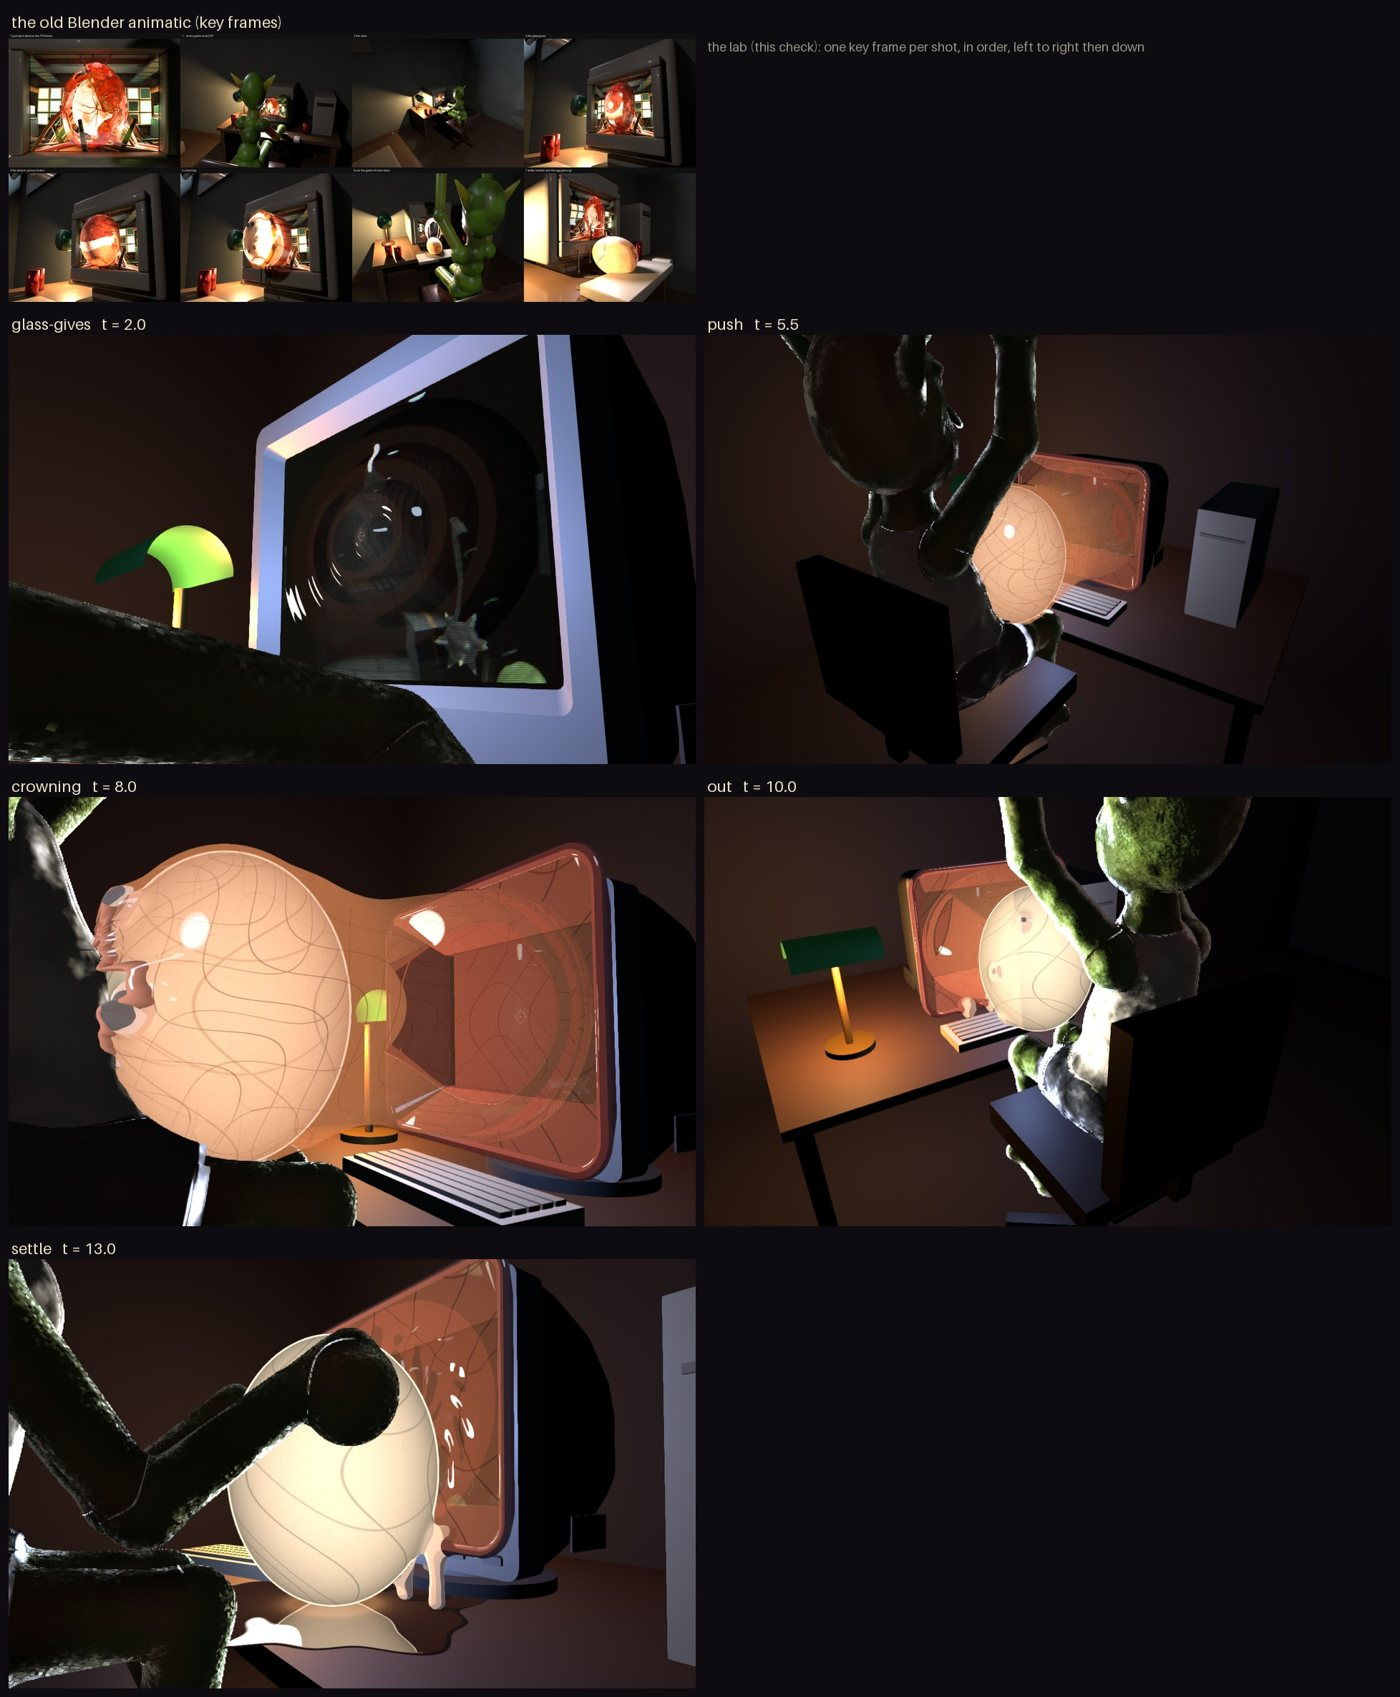
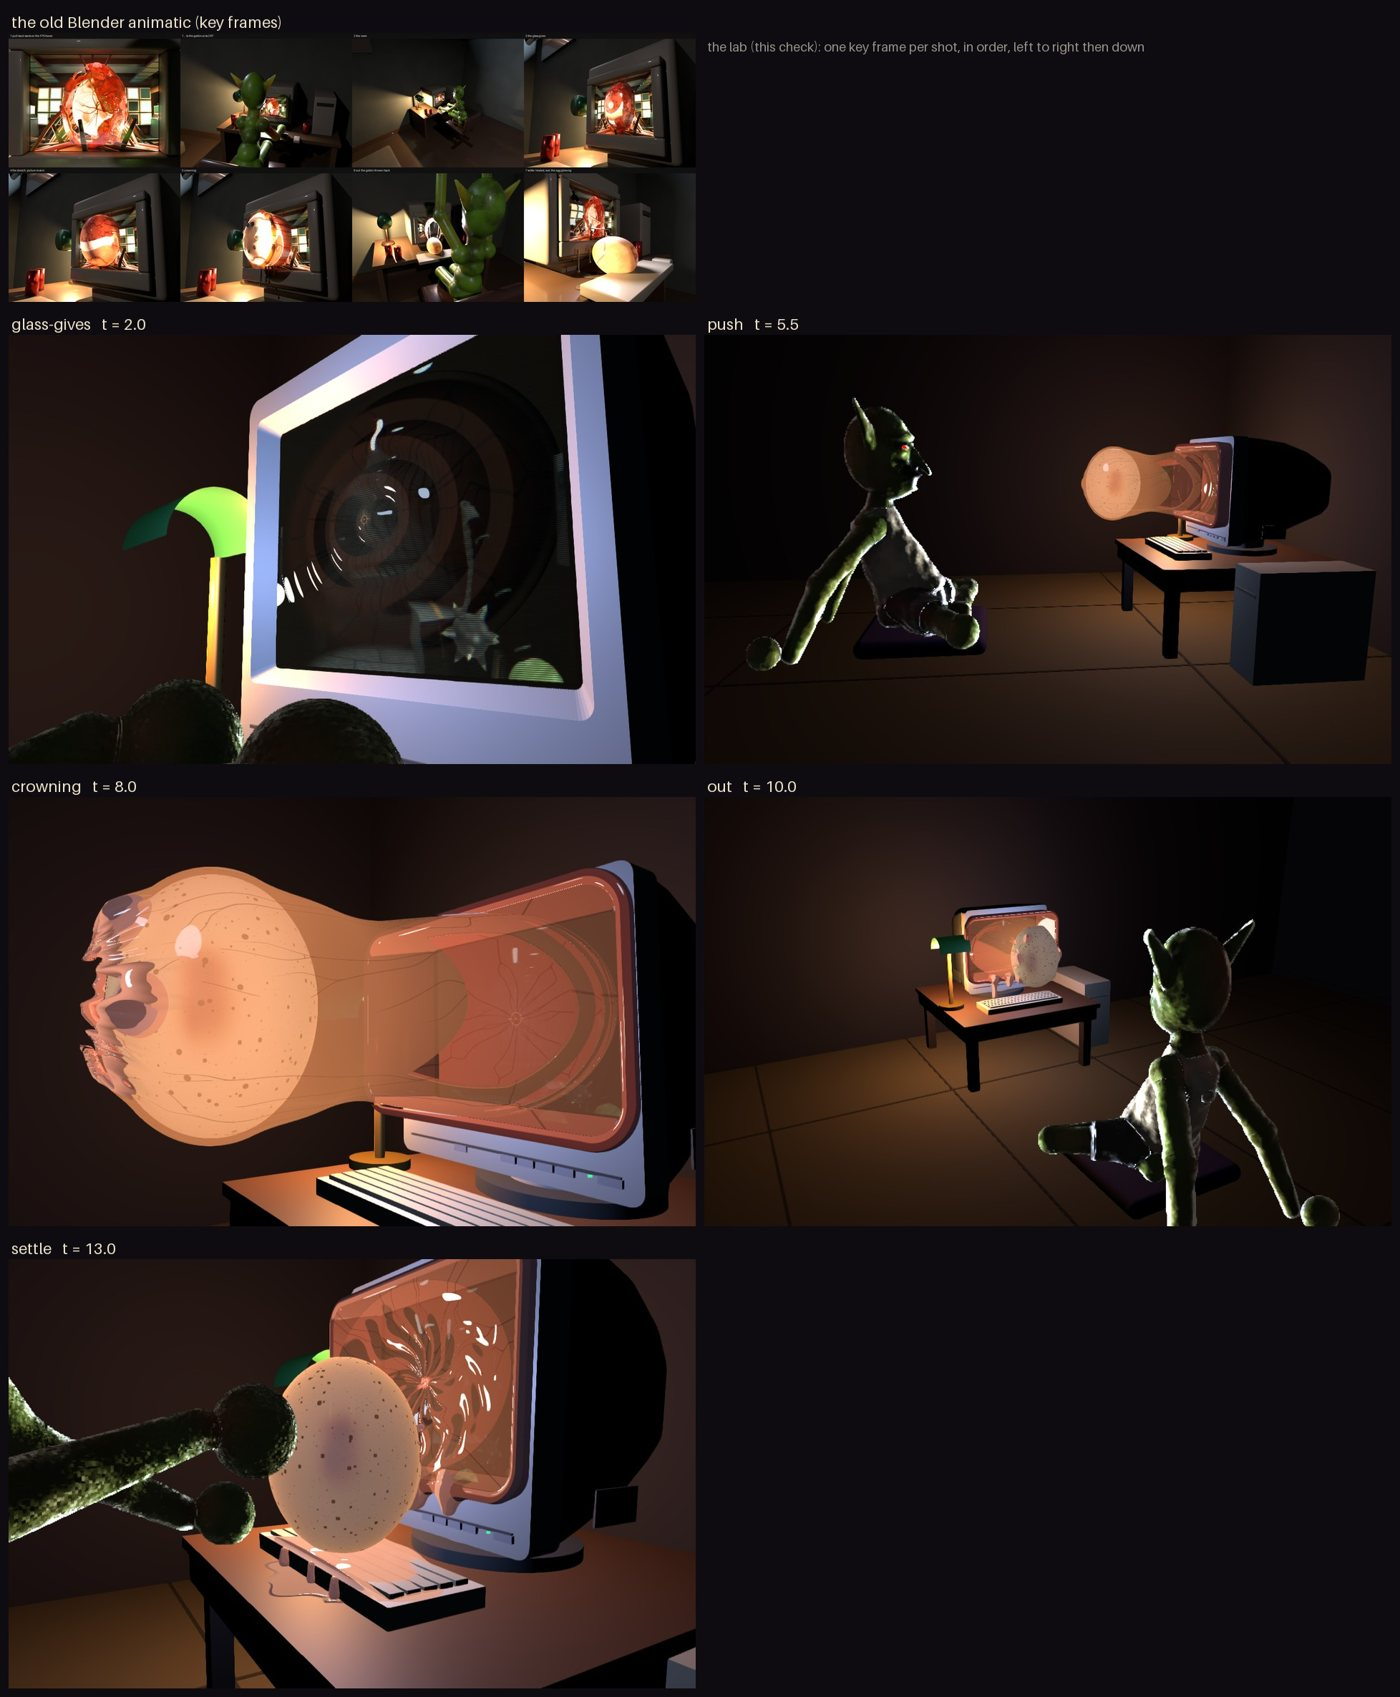
docs(emergence): look round 1, notes, sheet and spec addendum

Changed region(s): [[0.0, 0.1874, 1.0, 0.9994]]

diff --git a/docs/dev-notes/2026-10-11-screen-emergence/NOTES.md b/docs/dev-notes/2026-10-11-screen-emergence/NOTES.md
@@ -3,7 +3,7 @@
 **Spec:** [`2026-10-11-screen-emergence-lab-spike-design.md`](../../superpowers/specs/2026-10-11-screen-emergence-lab-spike-design.md) · **Plan:** [`2026-10-11-screen-emergence-lab-spike.md`](../../superpowers/plans/2026-10-11-screen-emergence-lab-spike.md) ·
 **Parent draft:** [`2026-10-01-flat-screen-emergence-design.md`](../../superpowers/specs/2026-10-01-flat-screen-emergence-design.md) · **Look-dev it follows:** [`2026-10-01-flat-emergence-lookdev`](../2026-10-01-flat-emergence-lookdev/notes.md).
 
-**Sheet:** [`sheet.jpg`](sheet.jpg): the old Blender animatic on top, then one lab frame per shot (glass gives t 2.0, push 5.5, crowning 8.0, out 10.0, settle 13.0), from the headless check below.
+**Sheet:** [`sheet.jpg`](sheet.jpg): the old Blender animatic on top, then one lab frame per shot (glass gives t 2.0, push 5.5, crowning 8.0, out 10.0, settle 13.0), from the headless check below. **It shows the state after look round 1** (below); the first round's sheet is in the PR #47 history.
 **The home clothes:** [`home-clothes.jpg`](home-clothes.jpg) (front, side, back at rest; and seated).
 
 ## What is built
@@ -66,3 +66,29 @@ The curve keys in `emergence-timeline.ts` (timing and amounts); `SAC_BLEND`, `DO
 ## Out of scope, still (the spec's list)
 
 Two scenes in one page; extending `ending-sequence.ts`; hooking the Night Train montage's last frame to the pull-back; the early-stage Flat as a level state (CRT and vest instead of the Giger iMac); a live CRT picture; the final egg (paused); sound; the playable Flat.
+
+## Look round 1 (2026-10-12 and 2026-10-13): the owner's notes and what changed
+
+Plan: [`2026-10-12-screen-emergence-look-round-1.md`](../../superpowers/plans/2026-10-12-screen-emergence-look-round-1.md).
+
+| The owner's note | What was done |
+| --- | --- |
+| The drips clip into the monitor after they recede | The drips hang from the lip's lower rim, which relaxes up and back during the heal, so they ended inside the chin. They are now anchored on the outside of the chin face (`DRIP_FACE_Z`), retract from `heal` 0.15 to 0.7 (the tip rising, the radius thinning), and never lie inside the housing (a test checks a 0.05 s grid). The pools they leave stay |
+| The drips are white; they should be the colour of the rest of the goo | The goo base was near-white, so each piece took the colour of whatever lit it (the drips got the lamp, the egg's light and a white sheen). Strands, beads, drips, runs, the slick and the keyboard coat now share one palette (`GOO_LOOK` in `emergence-field.ts`) and one shading function (`scrGooShade`); the egg's light on goo drops once the egg is on the table; a test pins that every goo path uses it. The tear's rim stays flesh-pink |
+| The egg is too big; still a bit smaller | 0.175 x 0.225 x 0.175 to 0.14 x 0.18 x 0.14 to **0.123 x 0.158 x 0.123 m** (0.70 of the original). The sac's reach stays about 0.65 m (`SAC_MAX` 0.646); the lip still gives (opened half-height 1.02 x the egg's `ry`) |
+| The strands, "the lines across the egg", look like random lines; a less shiny, more speckled eggshell; something moving visible only in intense light | The egg is an **eggshell**: matte cream, brown speckles (3 to 9 mm, denser at the blunt end), fine grain, a broad dim highlight, no glass glint, no outline, no lines. **Backlit translucency**: where the lamp is behind it, under it, or the egg's own light is strong (in the sac), the shell glows warm and a dim shape (three Gaussian blobs: body, a nodding head, a flexing limb) drifts inside; side-lit it is opaque. The membrane keeps veins but they are now a **branching tree** (7 trunks forking 3 times, thinning toward the apex and with `thin`) |
+| The goblin should back away to let it out, not raise his arm | `jolt`/`recoil` are no longer used. He leans back (0.9 s) and scoots 0.55 m back on his cushion as the glass swells, braced on straight arms behind him, and stays back through the push, tear and out; as the egg lands he comes forward onto his knees and puts a hand on it. A test checks his arms are never above his shoulders at any `t`, and that he stays more than 0.3 m clear of the sac from 3.45 to 10.4 s |
+| The desk and elevated chair do not match the apartment (floor level) | The set is the Flat's **low kotatsu**: the board is **0.385 m** above the floor he sits on (`flat_layout.py`'s `KTOP` 0.44 is measured from the room box's floor, and the tatami top is 0.055 above it), 0.82 m square, a quilted skirt; he is cross-legged on a plump zabuton; the tower is on the floor; no chair, no desk |
+| I do not want the keyboard to move out of the way; covered in egg goo when the egg comes out | `keyboardShove` is deleted. The egg lands **on** the keyboard (`EGG_REST` y = key tops + `ry`); a glossy goo coat spreads over the keys (0 before 10 s, 0.40 at 11, 0.72 at 11.5, 0.87 at the end), the keys faintly visible through it; drips land on the keys; three runs go over its front edge onto the board and leave pools |
+| Render at 640x480 for previewing (the machine gets hot) | The page renders a fixed 640 x 480 by default; the controls have a res select (800x600, 1280x800) and `?res=` does the same. The headless check keeps 1280 x 800 (`&res=1280x800`) |
+
+**Cost after the round** (`npm run emergence:check`, 1280x800, one run on a loaded machine): push 19.5 ms with the pass off and on (the pass adds 0.1 ms); at crowning the pass adds about 4.5 ms (the pass-off reading at crowning that run was not meaningful). A previous run of the same check read 73 to 129 ms with another Chrome rendering the page, so treat all of these as indicative; a quiet-machine re-measure is still owed.
+
+### Two findings worth carrying forward
+
+- **The lab page was not rendering the poses the tests checked.** `stepActorMotion` pins the rig to the pose, but two later passes (`pinTips`, which hangs hand tips and toes at their rest offsets, and `constrainRigBends`, the knee and elbow stops) folded the crossed shins and dropped the hands, so the page measured the board 4 cm low while the tests, which pin the rig straight to the joints, passed. The fix is local to the lab (`pinToPose` in `screen-lab-goblin.ts`, with a test that the page's path and the tests' path give identical flesh). `actor.ts` is unchanged, so `lab-main.ts` pose captures and the actor path generally still have it: a separate task.
+- **`pose.ts` gained** one-sided keys, a `root.y` for keys that turn the ground lock off, and a `fwd` foot that turns as a whole (all backward compatible; tests pin it).
+
+### Still open after the round
+
+The glass-gives shot never shows him on the floor (the push-wide shot is the first view that does); he is large in the out shot; the right foot sits ~6.7 cm inside the left thigh (hidden by the flesh union); the hands are the goblin's green orbs, so "flat" hands read as balls; the runs off the keyboard edge look stiff, like pegs; the slick catches large white highlights from the lamp; seen from low the coat reads as a thin film; the figure inside the egg is soft and slightly purple; the veins thin to about a pixel at crowning; the settle preset is partly backlit so the egg is peachy there (the owner may want less); he is dark from behind; the cloth's neck, folds and feet (Task 10's list); a quiet-machine cost re-measure.

diff --git a/docs/superpowers/specs/2026-10-11-screen-emergence-lab-spike-design.md b/docs/superpowers/specs/2026-10-11-screen-emergence-lab-spike-design.md
@@ -104,3 +104,7 @@ comes to rest over it. The goblin's seat height against the CRT and the desk is 
 1. The egg's size and the sac's reach: "most of a metre" is the draft's number; the look rounds will tune it.
 2. ~~Shirtless goblin~~ Answered 2026-10-11: the home clothes are SDF cloth (a vest and shorts as `shell` prims, `goblin-home.blob`), in this slice.
 3. Where the sequence goes after this spike: the two-scene seam and the train hookup (the draft's §3.1 and §3.5), or the early-stage Flat first.
+
+## 10. Addendum: look round 1 (2026-10-12/13)
+
+The owner's first notes changed the set and the goblin's choreography and the egg's look; the spec above is otherwise as built. See the [plan](../plans/2026-10-12-screen-emergence-look-round-1.md) and the [notes](../../dev-notes/2026-10-11-screen-emergence/NOTES.md). In short: the set is the Flat's floor-level kotatsu (no desk or chair; the CRT, keyboard and lamp on the board; the goblin cross-legged on a cushion); the goblin leans back and scoots away to let the egg out (no raised arms) and kneels forward to touch it; the egg is a smaller (0.123 x 0.158 x 0.123 m) matte speckled eggshell, with a shape that moves inside and shows only in strong backlight; the membrane's veins branch; one goo colour; the egg lands on the keyboard, which stays put and is coated in goo; the lab page renders at 640 x 480 by default.
